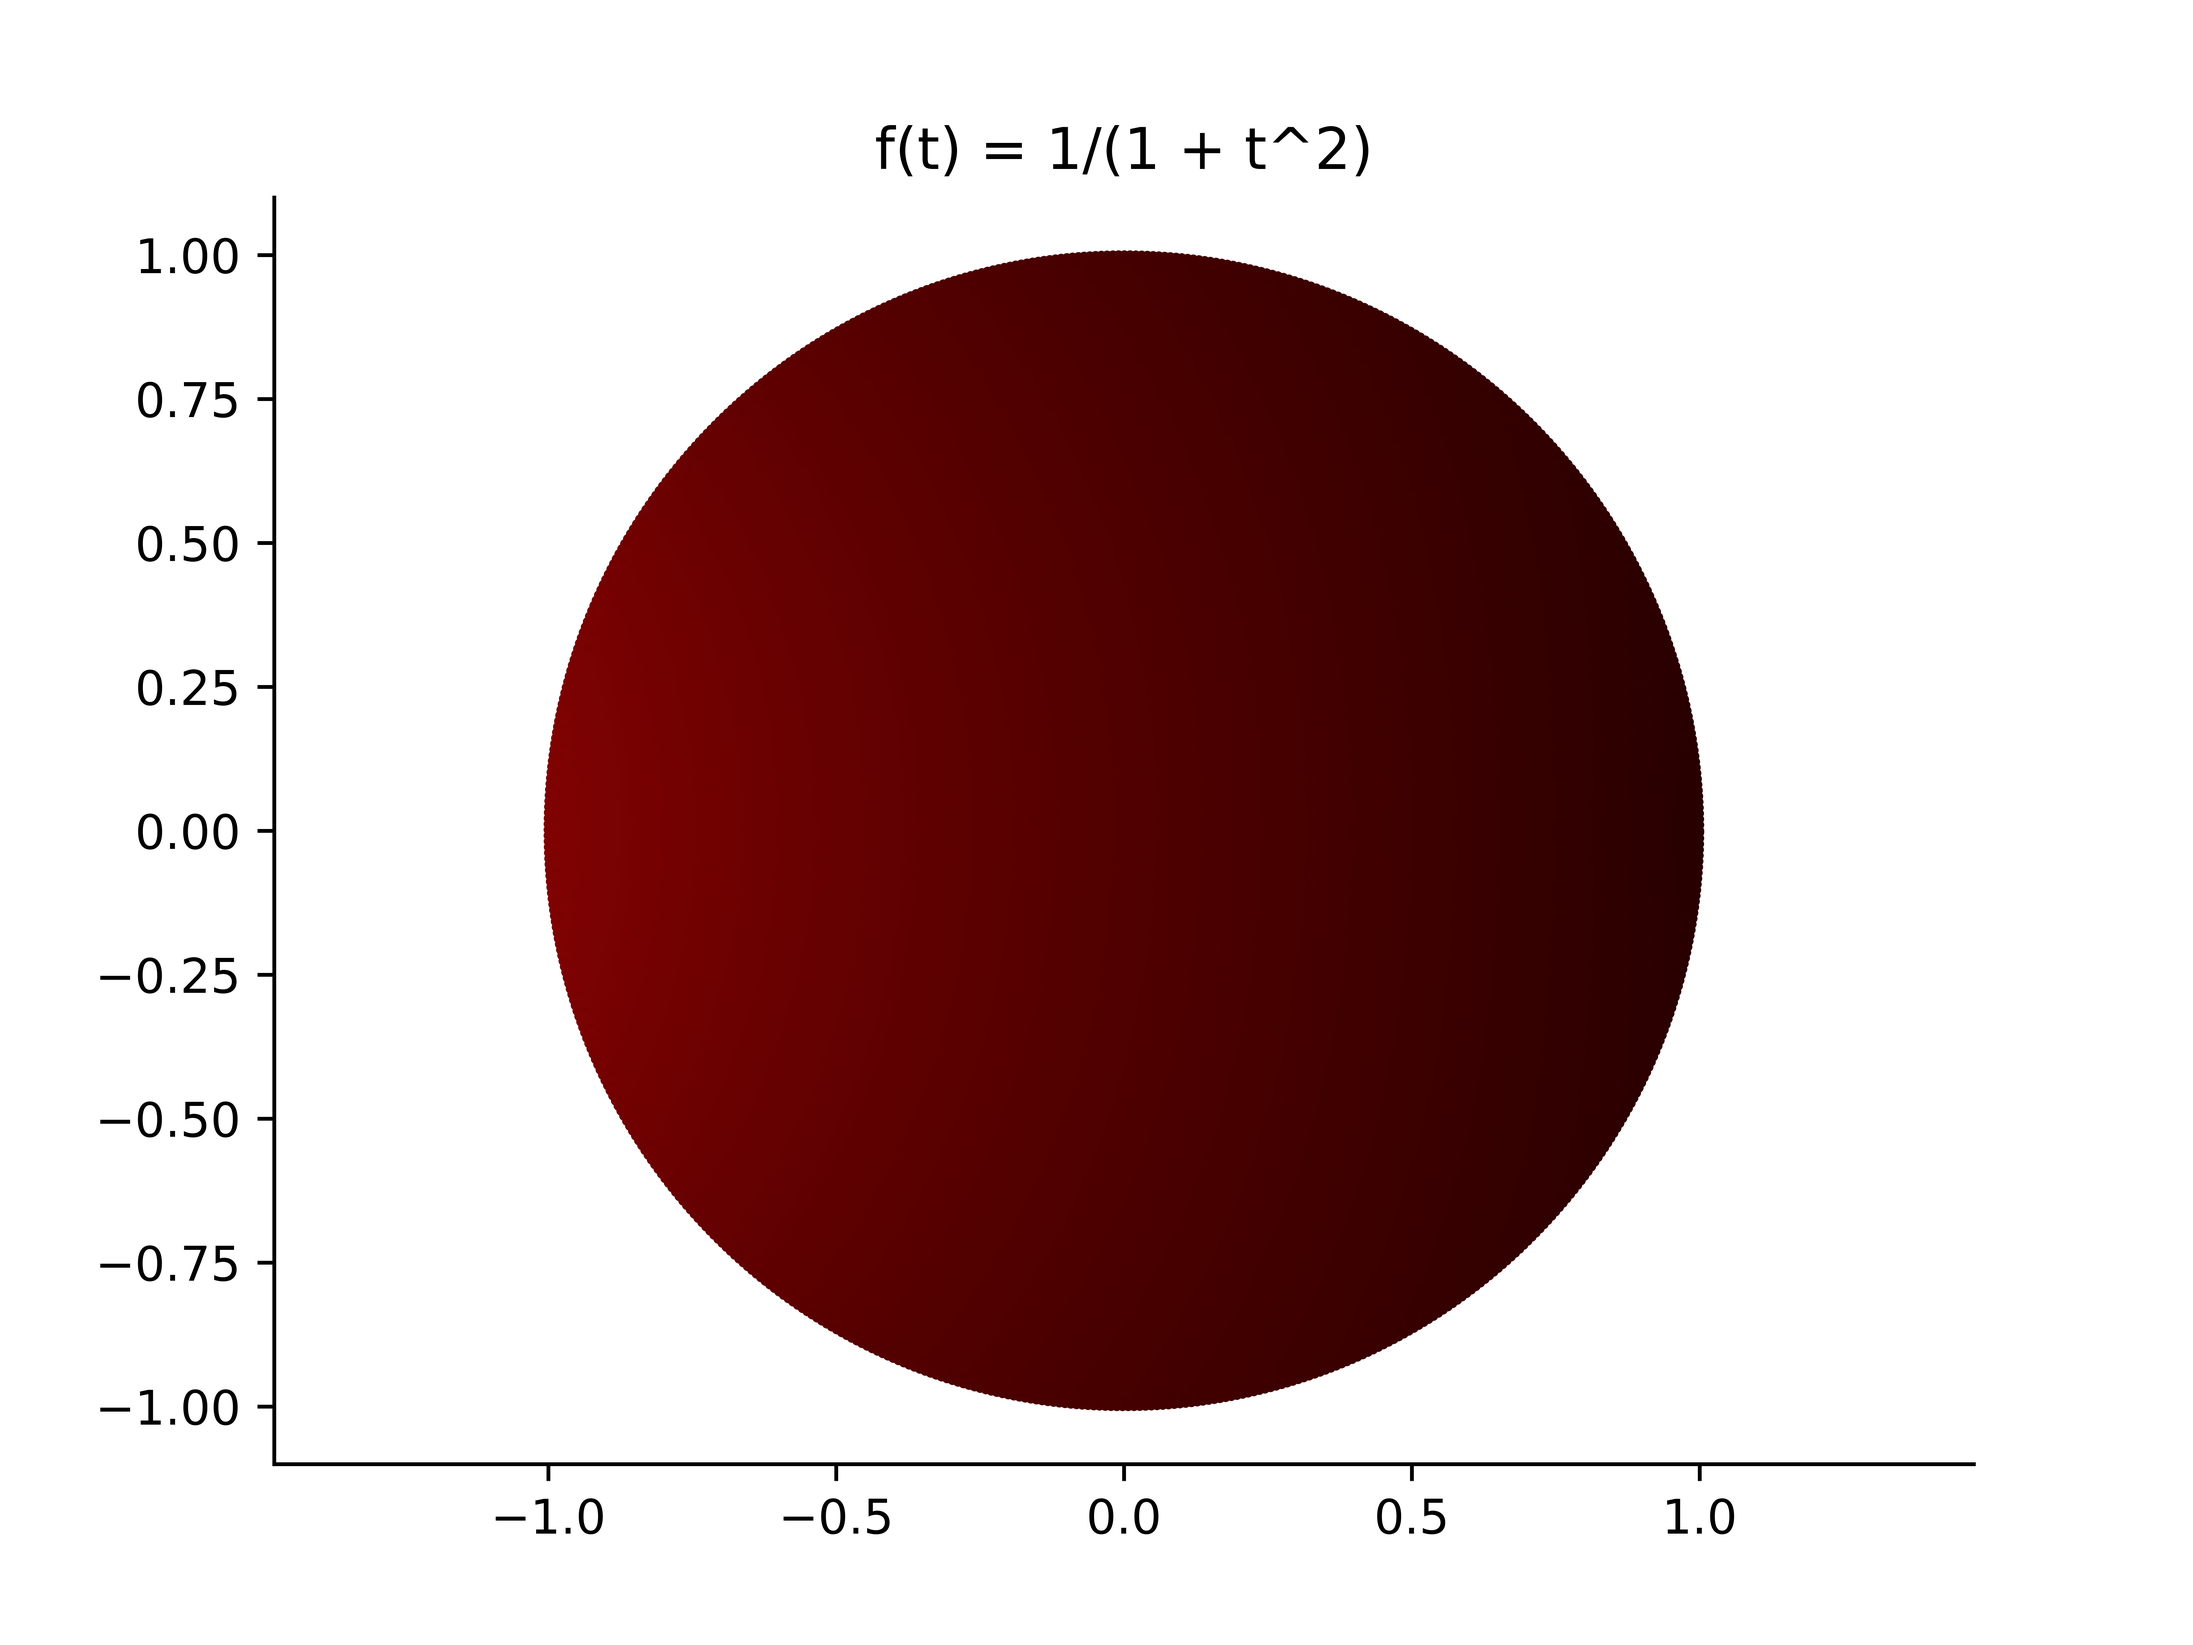
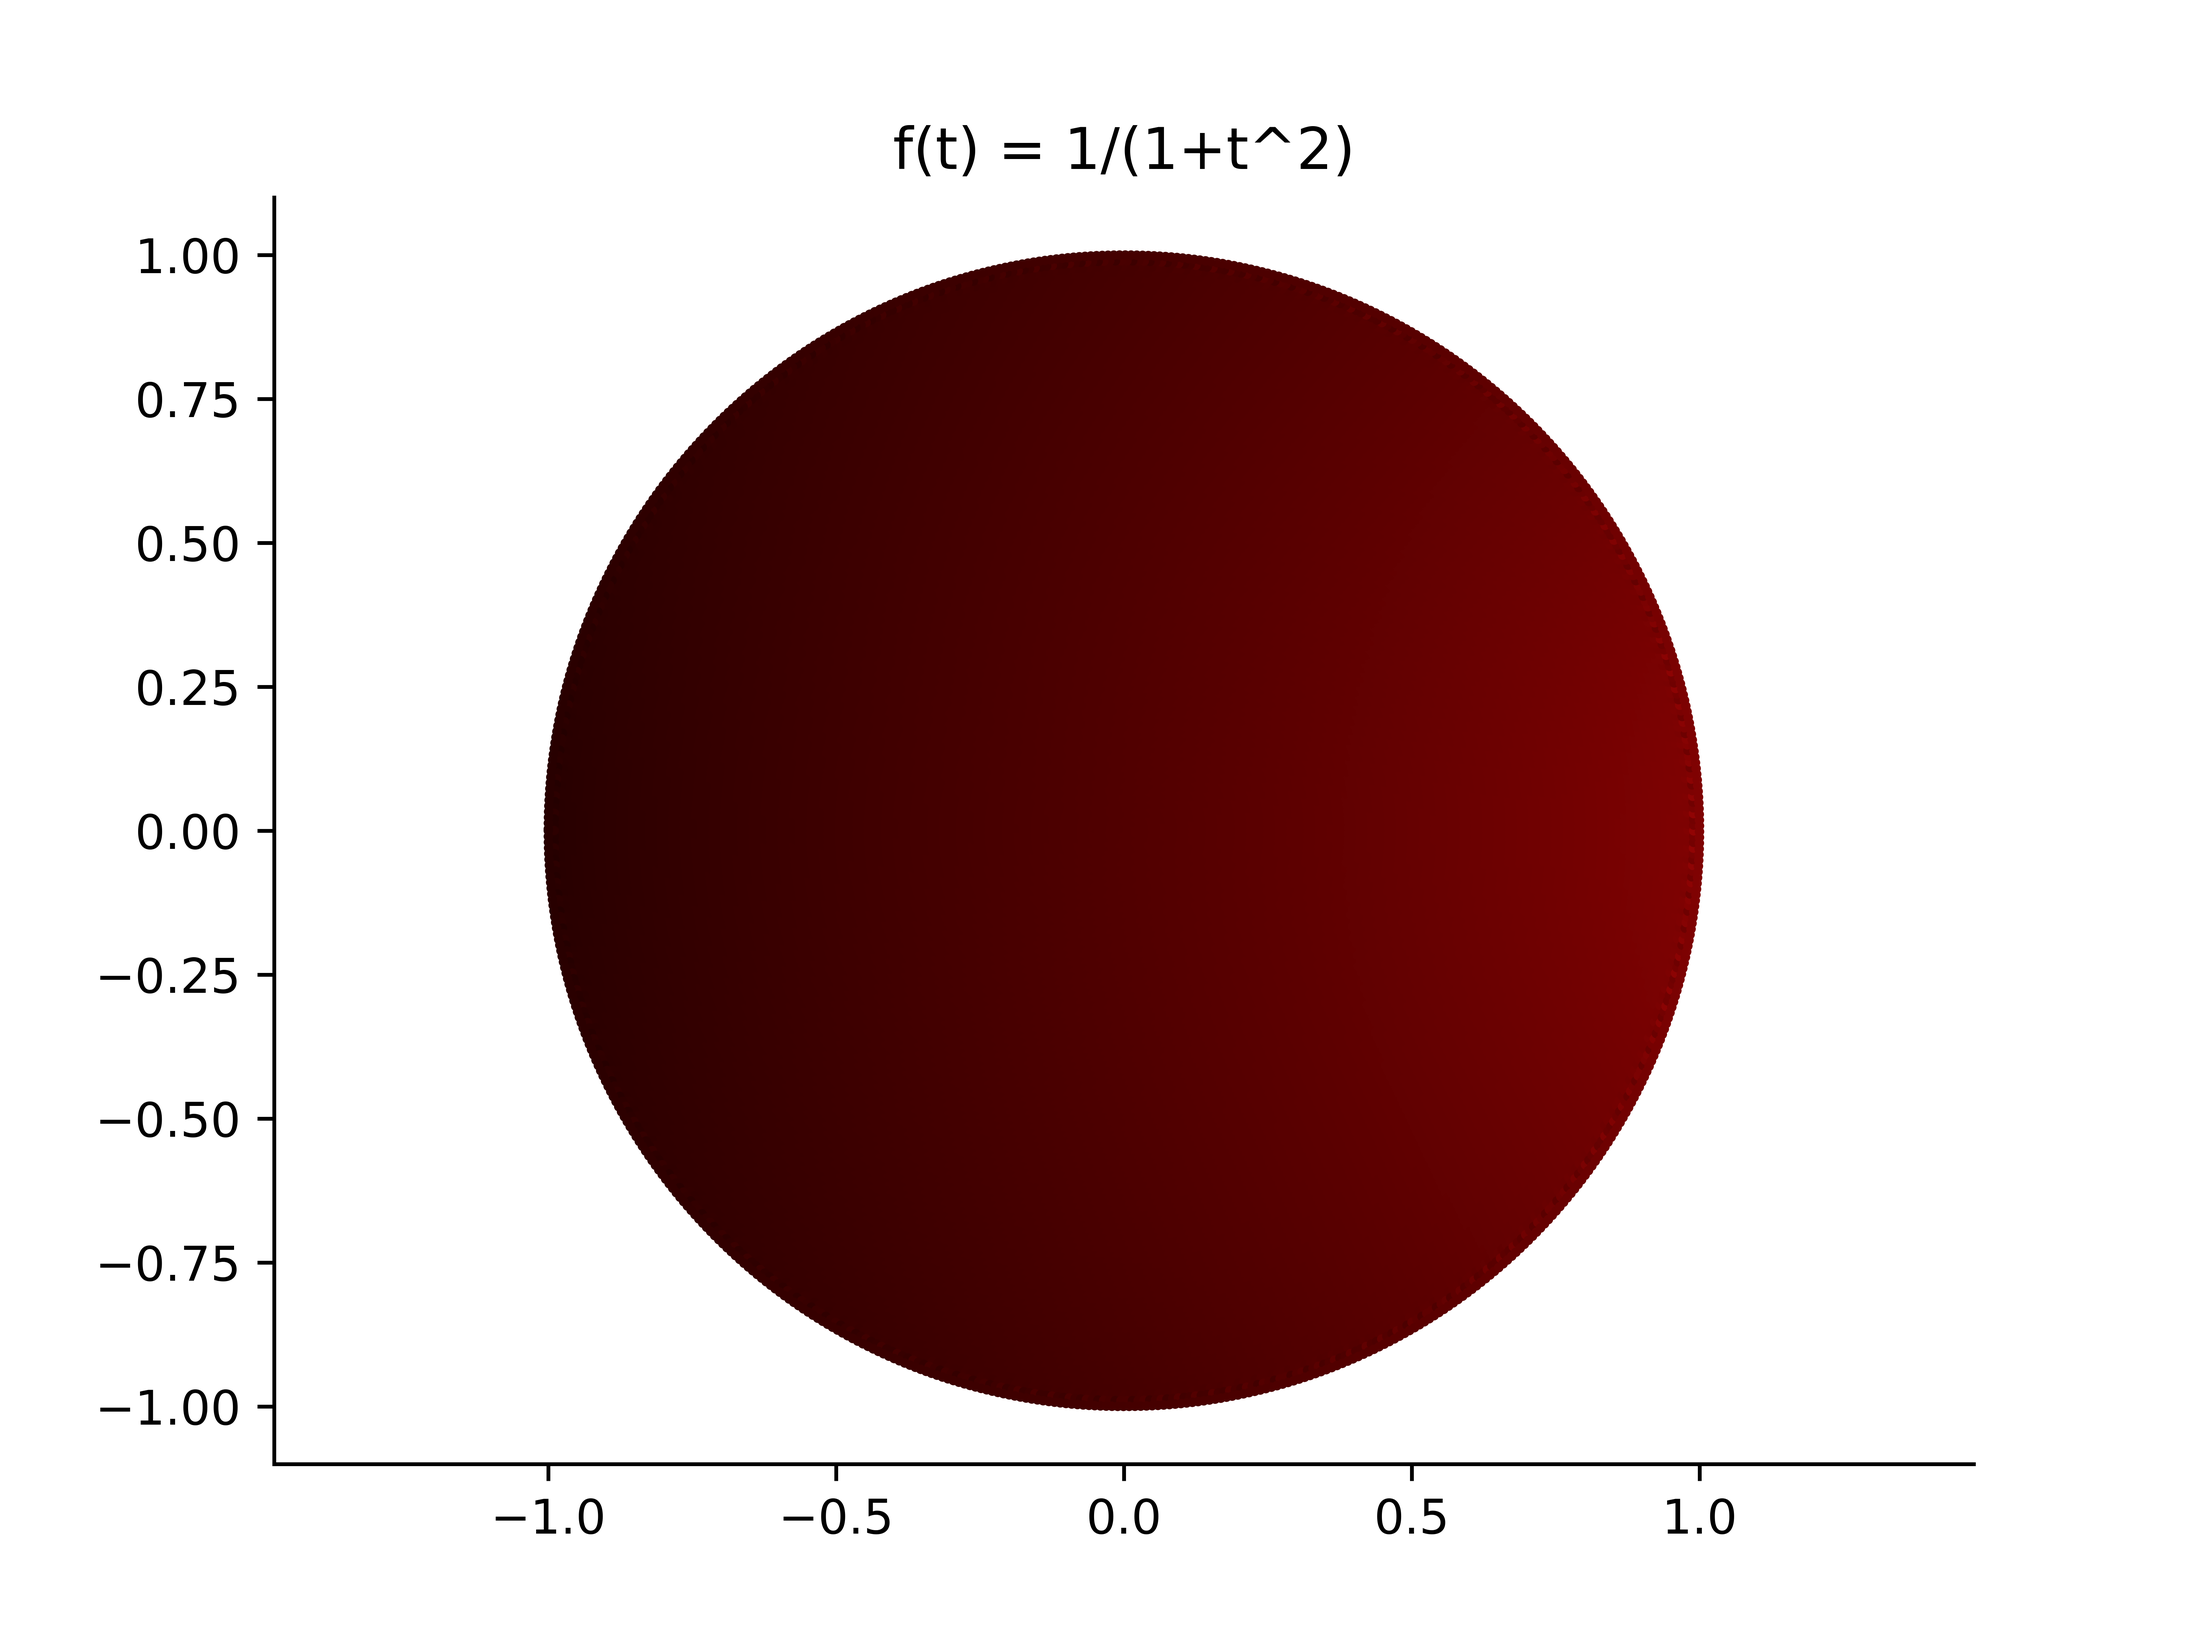
Aplicacion: refactorización por clases

diff --git a/Aplicacion/main.py b/Aplicacion/main.py
@@ -1,0 +1,92 @@
+import cmath
+import time
+
+from function import BoundaryFunction
+from function import ComplexFunction
+from plotter import Plotter
+
+
+start_time = time.time()
+
+#plotter = Plotter(BoundaryFunction(lambda t: cmath.cos(t / 2), 'f(t) = cos(t/2)'))
+#plotter.plot('cos(t:2)', show=False)
+
+#plotter = Plotter(BoundaryFunction(lambda t: cmath.sin(3 * t), 'f(t) = sin(3t)'))
+#plotter.plot('sen(3t)', show=False)
+
+#plotter = Plotter(BoundaryFunction(lambda t: cmath.cos(3 * t) + cmath.sin(3 * t), 'f(t) = cos(3t) + sen(3t)'))
+#plotter.plot('cos(3t) + sen(3t).png', show=False)
+
+plotter = Plotter(BoundaryFunction(lambda t: cmath.cos(t) ** 2 - cmath.sin(t) ** 2, 'f(t) = cos^2(t)-sen^2(t)'))
+plotter.plot('cos^2(t)-sen^2(t).png', show=False)
+
+plotter = Plotter(BoundaryFunction(lambda t: cmath.cos(t) ** 2 - cmath.sin(t) ** 2 + (2 * cmath.cos(t) * cmath.sin(t)) * 1j, 'f(t) = cos^2(t)-sen^2(t)+[2 cos(t) sen(t)]i'))
+plotter.plot('cos^2(t)-sen^2(t)+[2 cos(t) sen(t)]i.png', show=False)
+
+#plotter = Plotter(BoundaryFunction(lambda t: cmath.cos(3 * t + 1j) + cmath.sin(3 * t + 1j), 'f(t) = cos(3t + i) + sen(3t + i)'))
+#plotter.plot('cos(3t + i) + sen(3t + i).png', show=False)
+
+#plotter = Plotter(BoundaryFunction(lambda t: 1 / (1 + t ** 2), 'f(t) = 1/(1+t^2)'))
+#plotter.plot('1:(1+t^2).png', show=False)
+
+#plotter = Plotter(BoundaryFunction(lambda t: t ** 2, 'f(t) = t^2'))
+#plotter.plot('t^2.png', show=False)
+
+#plotter = Plotter(BoundaryFunction(lambda t: t ** 3, 'f(t) = t^3'))
+#plotter.plot('t^3.png', show=False)
+
+#plotter = Plotter(BoundaryFunction(lambda t: 0 if -cmath.pi < t < 0 else 100, 'Truncada'))
+#plotter.plot('truncada.png', show=False)
+
+
+
+#plotter = Plotter(ComplexFunction(lambda t: cmath.cos(t), 'f(z) = cos(z)'))
+#plotter.plot('cos(z).png', show=False)
+
+#plotter = Plotter(ComplexFunction(lambda t: cmath.sin(t), 'f(z) = sen(z)'))
+#plotter.plot('sen(z).png', show=False)
+
+#plotter = Plotter(ComplexFunction(lambda t: cmath.sin(1/t), 'f(z) = sen(1/z)'))
+#plotter.plot('sen(1:z).png', show=False)
+
+#plotter = Plotter(ComplexFunction(lambda t: cmath.tan(t), 'f(z) = tan(z)'))
+#plotter.plot('tan(z).png', show=False)
+
+#plotter = Plotter(ComplexFunction(lambda t: cmath.sqrt(t), 'f(z) = √z'))
+#plotter.plot('√z.png', show=False)
+
+#plotter = Plotter(ComplexFunction(lambda t: cmath.log(t), 'f(z) = log(z)'))
+#plotter.plot('log(z).png', show=False)
+
+#plotter = Plotter(ComplexFunction(lambda t: cmath.e ** t, 'f(z) = e^z)'))
+#plotter.plot('e^z.png', show=False)
+
+#plotter = Plotter(ComplexFunction(lambda t: cmath.e ** (1 / t), 'f(z) = e^(1/z)'))
+#plotter.plot('e^(1:z)2.png', show=False)
+
+#plotter = Plotter(ComplexFunction(lambda t: cmath.e ** (-t ** 2), 'f(z) = e^(-z^2)'))
+#plotter.plot('e^(-z^2).png', show=False)
+
+#plotter = Plotter(ComplexFunction(lambda t: cmath.e ** ((t + 1) / (t - 1)), 'f(z) = e^((z+1)/(z-1))'))
+#plotter.plot('e^((z+1)/(z-1)).png', show=False)
+
+#plotter = Plotter(ComplexFunction(lambda t: cmath.e ** cmath.sin(t), 'f(z) = e^(sen(z))'))
+#plotter.plot('e^(sen(z)).png', show=False)
+
+#plotter = Plotter(ComplexFunction(lambda t: 1/(t ** 3 - 1), 'f(z) = 1/(z^3 - 1)'))
+#plotter.plot('1:(z^3 - 1).png', show=False)
+
+#plotter = Plotter(ComplexFunction(lambda t: t, 'f(z) = z'))
+#plotter.plot('z.png', show=False)
+
+#plotter = Plotter(ComplexFunction(lambda t: t ** 2, 'f(z) = z^2'))
+#plotter.plot('z^2.png', show=False)
+
+#plotter = Plotter(ComplexFunction(lambda t: t ** 3, 'f(z) = z^3'))
+#plotter.plot('z^3.png', show=False)
+
+#plotter = Plotter(ComplexFunction(lambda t: t ** 8 - 2 * t ** 7 + 2 * t ** 6 - 4 * t ** 5 + 2 * t ** 4 - 2 t ** 3 - 5 * t ** 2 + 4 * t -4, 'f(z) = z^8-2z^7+2z^6-4z^5+2z^4-2z^3-5z^2+4z-4'))
+#plotter.plot('z^8-2z^7+2z^6-4z^5+2z^4-2z^3-5z^2+4z-4.png', show=False)
+
+print("--- %s seconds ---" % (time.time() - start_time))
+

diff --git a/Aplicacion/aplicacion.py b/Aplicacion/aplicacion.py
@@ -1,5 +1,6 @@
 import math
 import cmath
+import time
 import matplotlib.pyplot as plt
 import colorsys
 
@@ -18,7 +19,7 @@ def complex_color(z):
         v = brightness(abs(z))
         h = cmath.phase(z) / (2 * cmath.pi)
         s = (1 - v ** 4) ** 0.25
-        rgb = colorsys.hsv_to_rgb(cycle(h), truncate(s), truncate(v))
+        rgb = colorsys.hsv_to_rgb(decimal_part(h), truncate(s), truncate(v))
     return rgb
 
 
@@ -31,29 +32,11 @@ def truncate(x):
         return 1
 
 
-def cycle(x):
-    if x < 0:
-        return cycle(x + 1)
-    elif x < 1:
-        return x
-    else:
-        return cycle(x - 1)
-
-
-def f2(t):
-    if -cmath.pi < t < 0:
-        return 0
-    else:
-        return 100
-
-
-def f(t):
-    return 1/(1 + t**2)
+def decimal_part(x):
+    return x - math.floor(x)
 
 
 def poisson_kernel(theta, r, t):
-    #a = r * cmath.e ** (theta * 1j)
-    #return ((cmath.e ** (1j * t) + a) / (cmath.e ** (1j * t) - a)).real
     return (1 - r ** 2) / (1 - 2 * r * cmath.cos(theta - t) + r ** 2)
 
 
@@ -66,7 +49,7 @@ def trapezoidal_rule(f, limit_inf, limit_sup, n, r, theta):
     sum = 0
     for i in range(0, n + 1):
         aux = poisson_integral(f, r, theta, limit_inf + i * h)
-        #aux = f(limit_inf + i * h)
+        #  aux = f(limit_inf + i * h)
         if (i == 0) or (i == n):
             sum = sum + aux
         else:
@@ -77,7 +60,7 @@ def trapezoidal_rule(f, limit_inf, limit_sup, n, r, theta):
 def evaluate(f, b, r, theta):
     if b:  # poisson integral
         if r < 1:
-            return trapezoidal_rule(f, -cmath.pi, cmath.pi, 400, r, theta) / (2 * math.pi)
+            return trapezoidal_rule(f, -cmath.pi, cmath.pi, 300, r, theta) / (2 * math.pi)
         else:
             return f(theta)
     else:  # function
@@ -95,17 +78,17 @@ def delta(r, step_distance):
 
 def poisson(f, b):
     r = 0
-    theta = 0
+    theta = -cmath.pi
     step_distance = 0.01
     deltatheta = delta(r, step_distance)
     x = []
     y = []
     rgb = []
     while r <= 1.01:
-        while theta < (2 * cmath.pi):
+        while theta < (cmath.pi):
             a = r * cmath.e ** (theta * 1j)
             try:
-                fa = evaluate(f, b, r, theta - cmath.pi)
+                fa = evaluate(f, b, r, theta)
                 rgb.append(complex_color(fa))
                 x.append(a.real)
                 y.append(a.imag)
@@ -115,7 +98,7 @@ def poisson(f, b):
                 theta = theta + deltatheta
 
         r = r + step_distance
-        theta = 0
+        theta = -cmath.pi
         deltatheta = delta(r, step_distance)
     plot(x, y, rgb)
 
@@ -144,14 +127,16 @@ def plot(x, y, rgb):
     # plt.yticks([-1, -0.5, 0, +0.5, +1])
     #plt.axis([-2, 2, -2, 2])
 
-    plt.title('f(t) = 1/(1 + t^2)')
+    plt.title('f(t) = cos^2(t)-sen^2(t)')
     plt.scatter(x, y, c=rgb, s=1)
     plt.savefig("disco.png", dpi=1000)
-    plt.show()
+    #plt.show()
 
 
 def main():
-    poisson(f, 1)
+    start_time = time.time()
+    poisson(lambda t: cmath.cos(t) ** 2 - cmath.sin(t) ** 2, 1)
+    print("--- %s seconds ---" % (time.time() - start_time))
 
 
 if __name__ == '__main__':

diff --git a/Aplicacion/plotter.py b/Aplicacion/plotter.py
@@ -1,0 +1,99 @@
+import cmath
+import math
+import matplotlib.pyplot as plt
+import colorsys
+from misc import frange
+
+
+class Plotter:
+    def __init__(self, abstract_function):
+        self.__abstract_function = abstract_function
+
+    def plot(self, file_name="disco.png", show=True, radio=1): #TODO: calcular step_distance a partir del radio
+        step_distance = 0.01
+        x = []
+        y = []
+        rgb = []
+        for r in frange(0, radio + step_distance, step_distance):
+            delta_theta = self.__delta(r, step_distance)
+            for theta in frange(-math.pi, math.pi, delta_theta):
+                a = r * cmath.e ** (theta * 1j)
+                try:
+                    fa = self.__abstract_function.eval(r, theta)
+                    rgb.append(self.__complex_color(fa))
+                    x.append(a.real)
+                    y.append(a.imag)
+                except (ArithmeticError, ValueError):
+                    pass
+
+        self.__plot(x, y, rgb, self.__abstract_function.label, file_name, show)
+
+    @staticmethod
+    def __delta(r, step_distance):
+        if r == 0:
+            return 2 * cmath.pi
+        else:
+            steps = (2 * cmath.pi * r) / step_distance
+            return (2 * cmath.pi) / steps
+
+    @staticmethod
+    def __brightness(x):
+        if x <= 1:
+            return math.sqrt(x) / 2
+        else:
+            return 1 - 8 / ((x + 3) ** 2)
+
+    @staticmethod
+    def __complex_color(z):
+        if z == 0:
+            rgb = colorsys.hsv_to_rgb(0, 1, 0)
+        else:
+            v = Plotter.__brightness(abs(z))
+            h = cmath.phase(z) / (2 * cmath.pi)
+            s = (1 - v ** 4) ** 0.25
+            rgb = colorsys.hsv_to_rgb(Plotter.__decimal_part(h), Plotter.__truncate(s), Plotter.__truncate(v))
+        return rgb
+
+    @staticmethod
+    def __truncate(x):
+        if x < 0:
+            return 0
+        elif x < 1:
+            return x
+        else:
+            return 1
+
+    @staticmethod
+    def __decimal_part(x):
+        return x - math.floor(x)
+
+    @staticmethod
+    def __plot(x, y, rgb, label, file_name, show):
+        fig = plt.figure()
+        ax = fig.add_subplot(1, 1, 1)
+
+        # Move left y-axis and bottim x-axis to centre, passing through (0,0)
+        # ax.spines['left'].set_position('center')
+        # ax.spines['bottom'].set_position('center')
+
+        # Eliminate upper and right axes
+        ax.spines['right'].set_color('none')
+        ax.spines['top'].set_color('none')
+
+        # Show ticks in the left and lower axes only
+        ax.xaxis.set_ticks_position('bottom')
+        ax.yaxis.set_ticks_position('left')
+
+        # ax.grid(True)
+        ax.axis('equal')
+
+        # Modify axis
+        # plt.xticks([-1, -0.5, 0, +0.5, +1])
+        # plt.yticks([-1, -0.5, 0, +0.5, +1])
+        # plt.axis([-2, 2, -2, 2])
+
+        plt.title(label)
+        plt.scatter(x, y, c=rgb, s=1)
+        plt.savefig(file_name, dpi=1000)
+        if show:
+            plt.show()

diff --git a/Aplicacion/function.py b/Aplicacion/function.py
@@ -1,0 +1,49 @@
+import cmath
+
+
+class AbstractFunction:
+    def __init__(self, f, label):
+        self.f = f
+        self.label = label
+
+
+class BoundaryFunction(AbstractFunction):
+    def __init__(self, f, label, steps=300):
+        AbstractFunction.__init__(self, f, label)
+        self.__steps = steps
+
+    def eval(self, r, theta):
+        if r < 1:
+            return self.__integral(-cmath.pi, cmath.pi, self.__steps, r, theta) / (2 * cmath.pi)
+        else:
+            return self.f(theta)
+
+    def __integral(self, limit_inf, limit_sup, n, r, theta):
+        h = (limit_sup - limit_inf) / n
+        sum = 0
+        for i in range(0, n + 1):
+            aux = self.__poisson_integral(r, theta, limit_inf + i * h)
+            # aux = f(limit_inf + i * h)
+            if (i == 0) or (i == n):
+                sum = sum + aux
+            else:
+                sum = sum + 2 * aux
+        return sum * h / 2
+
+    @staticmethod
+    def __poisson_kernel(r, theta, t):
+        # a = r * cmath.e ** (theta * 1j)
+        # return ((cmath.e ** (1j * t) + a) / (cmath.e ** (1j * t) - a)).real
+        return (1 - r ** 2) / (1 - 2 * r * cmath.cos(theta - t) + r ** 2)
+
+    def __poisson_integral(self, r, theta, t):
+        return self.f(t) * self.__poisson_kernel(r, theta, t)
+
+
+class ComplexFunction(AbstractFunction):
+    def __init__(self, f, label):
+        AbstractFunction.__init__(self, f, label)
+
+    def eval(self, r, theta):
+        a = r * cmath.e ** (theta * 1j)
+        return self.f(a)

diff --git a/Aplicacion/misc.py b/Aplicacion/misc.py
@@ -1,0 +1,4 @@
+def frange(start, end, step):
+    while start < end:
+        yield start
+        start = start + step
